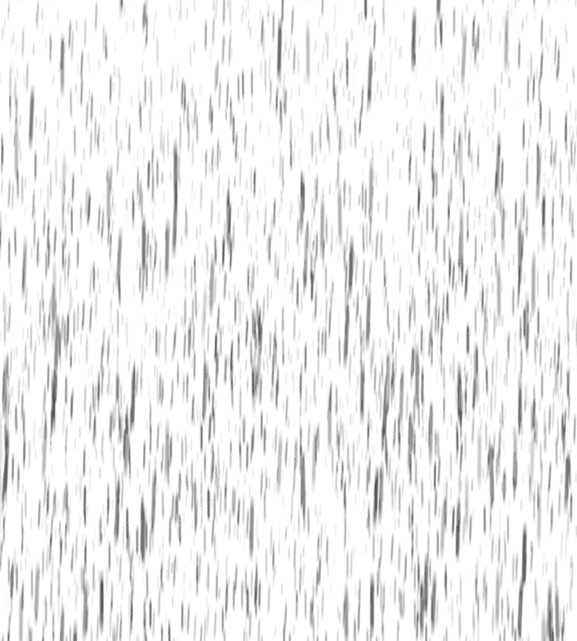
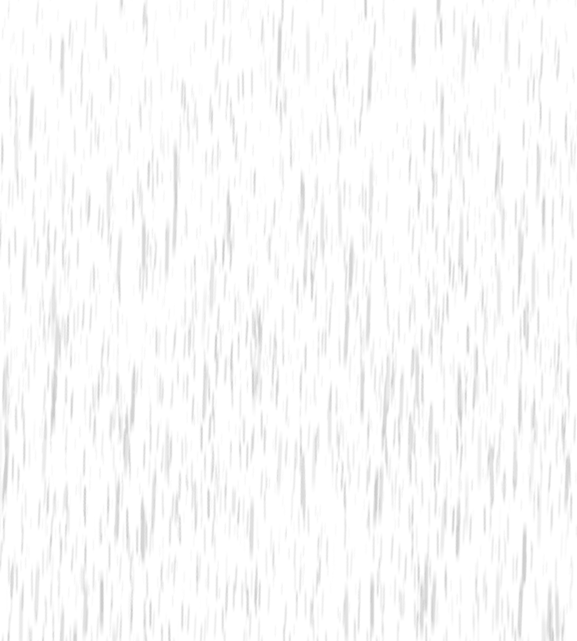
Make rain more transparent

diff --git a/src/rain.cpp b/src/rain.cpp
@@ -22,7 +22,7 @@ void Rain::initialize() {
 	rainOffset.resize(nbRain);
 	for (int i = 0; i < nbRain; i++)
 	{
-		positions[i] = 20 * (1 + random()) * vec3(randUnitVec2(),0);
+		positions[i] = 20 * (0.5 + random()) * vec3(randUnitVec2(),0);
 		rainOffset[i] = random();
 	}
 
